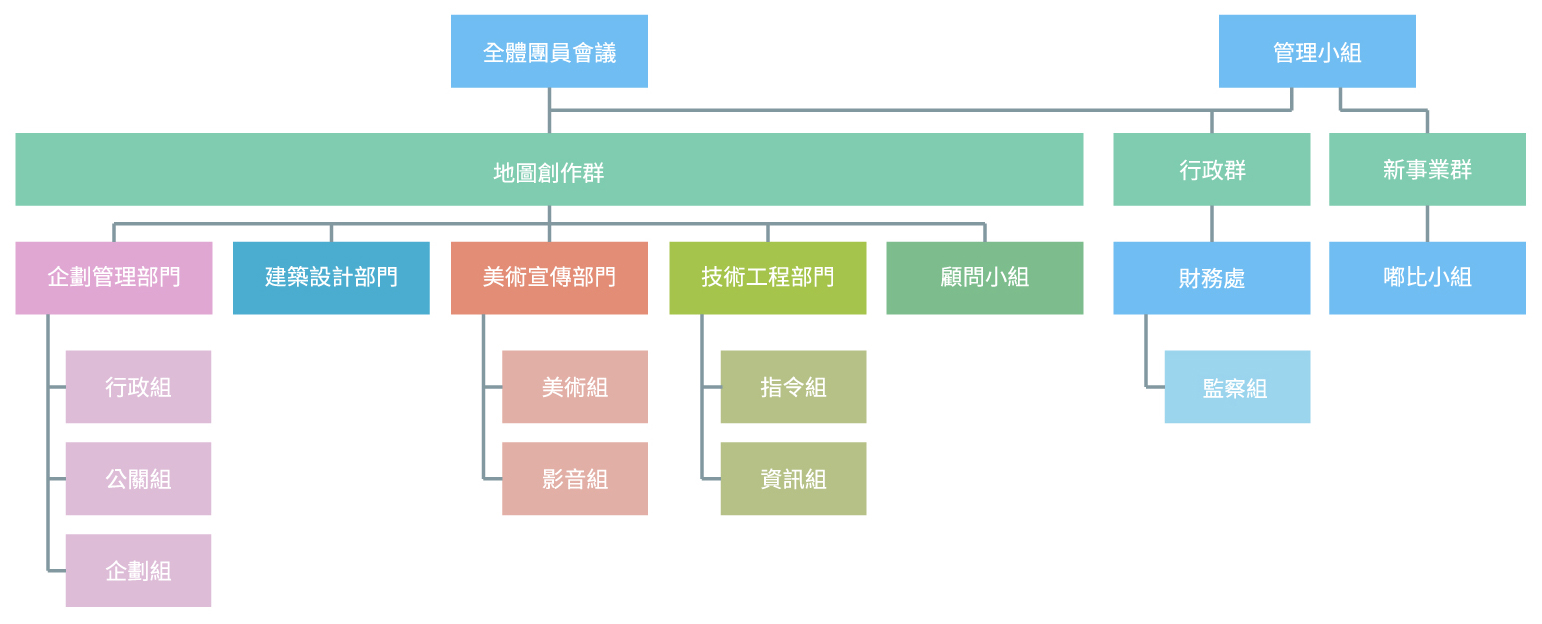
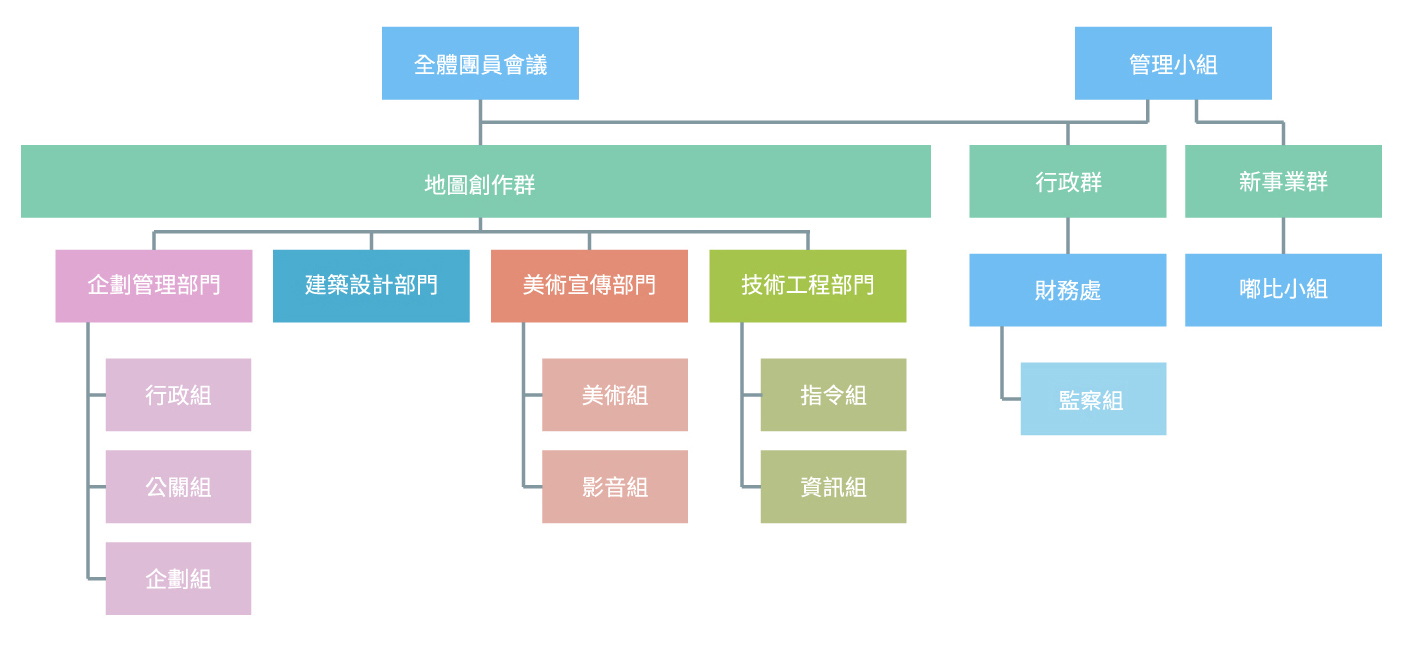
更新

Changed region(s): [[0.0, 0.3349, 0.9965, 0.9744], [0.0, 0.0, 0.9965, 0.3349], [0.6851, 0.5481, 0.8719, 0.7003]]

diff --git a/about/index.html b/about/index.html
@@ -115,7 +115,8 @@
             </header>
             <section>
 
-                <p style="text-align: justify;"><span style="box-shadow: 0 0 0 4px #ffffff, 0 0 0 5px #ffffff" class="image right"><img src="../images/logo_0218.png" alt="" /></span>夢想之都工作室（DreamCity Studio）成立於2015年，團隊成員以學生為主。<br><br>
+                <p style="text-align: justify;"><span style="box-shadow: 0 0 0 4px #ffffff, 0 0 0 5px #ffffff" class="image right">
+                    <img src="../images/logo_0218.png" alt="" /></span>夢想之都工作室（DreamCity Studio）成立於2015年，團隊成員以學生為主。<br><br>
                     我們是線上學生社群組織，一直以來深耕於Minecraft地圖製作，致力於創作並推廣Minecraft，期間創作超過20個遊戲作品，總下載量達到18萬，深獲玩家好評；在創作的過程也藉此磨練技術、培養專長，與團員共同成長。<br><br></p>
                 <hr>
                 <header class="major">
@@ -164,10 +165,9 @@
 
                 <ul>
                     <li>夢想之都工作室以團長為團隊最高領導者與負責人。</li>
-                    <li>本團隊設有四部門、三小組。建築設計、企劃管理、美術宣傳、及技術工程部門與管理小組、顧問小組。</li>
+                    <li>本團隊設有四部門。建築設計、企劃管理、美術宣傳、及技術工程部門與管理小組。</li>
                     <li>各部門設有首席一人及次席若干人為部門軸心。</li>
-                    <li>團內顧問需由團長邀請後，方可擔任。</li>
-                    <li>管理小組由團長、各部門首席、次席及首席顧問共同組成，為團隊要務進行決策。</li>
+                    <li>管理小組由團長、各部門首席及次席共同組成，為團隊要務進行決策。</li>
                 </ul>
             </section>
         </div>
